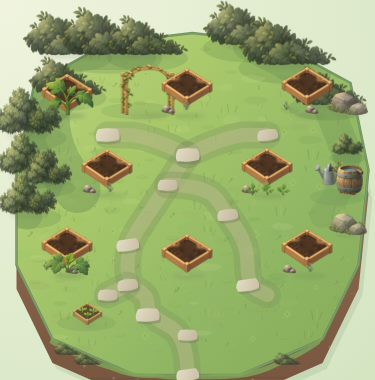
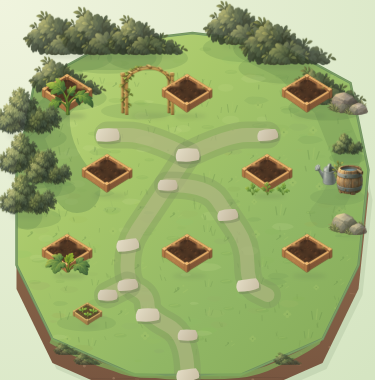
fix(potager): utiliser uniquement la variante de platebande neutre v00 (#49)
Les variantes v01-v03 contiennent des accessoires intégrés (pierre_creme,
feuillage_sauge) qui traversent ou concurrencent les cultures. Seule la
variante v00 (bois_chaud + terre_humide, sans accessoire intégré) sert de
cadre neutre pour les 8 emplacements.

Mapping modifié : tous les index → v00.
Architecture, contacts, IDs, hitboxes, séparation cadre/culture inchangés.
Captures régénérées dans docs/visual-review/issue-49/.

diff --git a/lib/garden/potager_scene.dart b/lib/garden/potager_scene.dart
@@ -29,73 +29,76 @@ class PotagerPilotScene {
 }
 
 /// The eight potager planting slots rendered as declarative sprite objects.
-/// Each index references one of the four hand-authored platebande variants;
+/// Each index references an explicitly authored platebande variant;
 /// no variant is chosen by calculation, random, or plant state.
+///
+/// Only variant 00 is used: its YAML palette_roles are bois_chaud and
+/// terre_humide alone — no integrated stone or foliage accessory that could
+/// cross or compete with a crop. Variants 01–03 carry pierre_creme and
+/// feuillage_sauge integrated structures deemed too present for a frame.
 class PotagerBeds {
   const PotagerBeds._();
 
   static const _bedWidth = 52.25;
+  static const _bedHeight = 40.5;
 
   static const _v00 = 'potager_decor_bac_potager_statique_ordinaire_00.png';
-  static const _v01 = 'potager_decor_bac_potager_statique_ordinaire_01.png';
-  static const _v02 = 'potager_decor_bac_potager_statique_ordinaire_02.png';
-  static const _v03 = 'potager_decor_bac_potager_statique_ordinaire_03.png';
 
   static const beds = <GardenSpriteObject>[
     GardenSpriteObject(
       id: 'bed_0',
       asset: _v00,
       contact: Offset(75, 150),
-      size: Size(_bedWidth, 40.5),
+      size: Size(_bedWidth, _bedHeight),
       layer: GardenLayer.depth,
     ),
     GardenSpriteObject(
       id: 'bed_1',
-      asset: _v01,
+      asset: _v00,
       contact: Offset(275, 230),
-      size: Size(_bedWidth, 46.75),
+      size: Size(_bedWidth, _bedHeight),
       layer: GardenLayer.depth,
     ),
     GardenSpriteObject(
       id: 'bed_2',
-      asset: _v02,
+      asset: _v00,
       contact: Offset(75, 310),
-      size: Size(_bedWidth, 48.0),
+      size: Size(_bedWidth, _bedHeight),
       layer: GardenLayer.depth,
     ),
     GardenSpriteObject(
       id: 'bed_3',
-      asset: _v03,
+      asset: _v00,
       contact: Offset(315, 310),
-      size: Size(_bedWidth, 45.5),
+      size: Size(_bedWidth, _bedHeight),
       layer: GardenLayer.depth,
     ),
     GardenSpriteObject(
       id: 'bed_4',
-      asset: _v01,
+      asset: _v00,
       contact: Offset(195, 150),
-      size: Size(_bedWidth, 46.75),
+      size: Size(_bedWidth, _bedHeight),
       layer: GardenLayer.depth,
     ),
     GardenSpriteObject(
       id: 'bed_5',
-      asset: _v03,
+      asset: _v00,
       contact: Offset(115, 230),
-      size: Size(_bedWidth, 45.5),
+      size: Size(_bedWidth, _bedHeight),
       layer: GardenLayer.depth,
     ),
     GardenSpriteObject(
       id: 'bed_6',
       asset: _v00,
       contact: Offset(195, 310),
-      size: Size(_bedWidth, 40.5),
+      size: Size(_bedWidth, _bedHeight),
       layer: GardenLayer.depth,
     ),
     GardenSpriteObject(
       id: 'bed_7',
-      asset: _v02,
+      asset: _v00,
       contact: Offset(315, 150),
-      size: Size(_bedWidth, 48.0),
+      size: Size(_bedWidth, _bedHeight),
       layer: GardenLayer.depth,
     ),
   ];

diff --git a/test/garden_scene_test.dart b/test/garden_scene_test.dart
@@ -138,6 +138,8 @@ void main() {
     'potager_decor_bac_potager_statique_ordinaire_03.png',
   };
 
+  const neutralBedVariant = 'potager_decor_bac_potager_statique_ordinaire_00.png';
+
   test('potager beds preserve the eight existing ground contacts', () {
     expect(PotagerBeds.beds.length, 8);
     expect(
@@ -146,15 +148,17 @@ void main() {
     );
   });
 
-  test('potager beds reference only the four authored variants', () async {
+  test('potager beds reference only neutral authored variants', () async {
     for (final bed in PotagerBeds.beds) {
       expect(bedVariants, contains(bed.asset));
+      expect(
+        bed.asset,
+        neutralBedVariant,
+        reason:
+            'only variant 00 (bois + terre, no integrated stone or foliage) '
+            'is neutral enough to frame all crops without crossing them',
+      );
     }
-    expect(
-      PotagerBeds.beds.map((bed) => bed.asset).toSet().length,
-      4,
-      reason: 'all four variants must be used at least once',
-    );
     final manifest = jsonDecode(
       await rootBundle.loadString('assets/sprites/manifest.json'),
     ) as Map<String, dynamic>;
